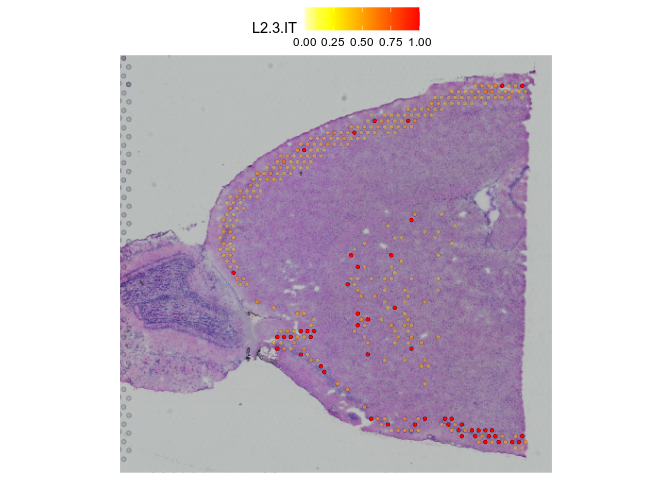
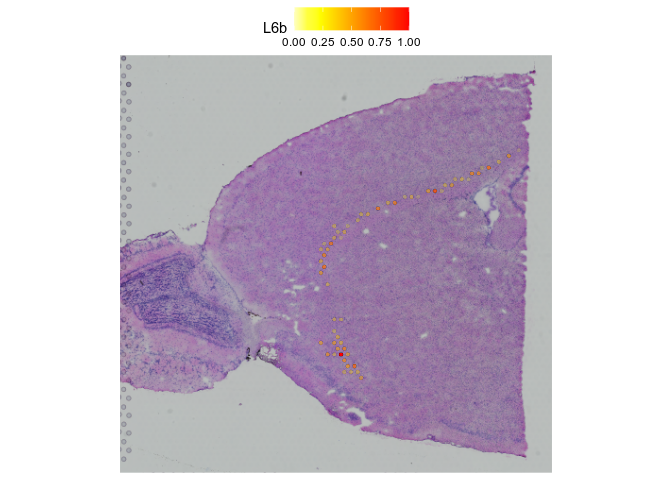
updated readme

diff --git a/README.md b/README.md
@@ -256,7 +256,7 @@ distributed.
 
 ``` r
 SpatialFeaturePlot(anterior,
-                 features = "L2.3.IT", 
+                 features = "L6b", 
                  pt.size.factor = 1,
                  alpha = c(0, 1)) +
   ggplot2::scale_fill_gradientn(
